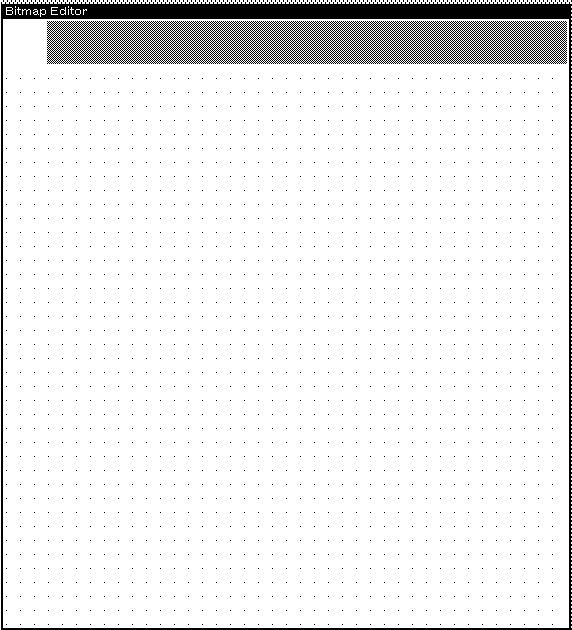
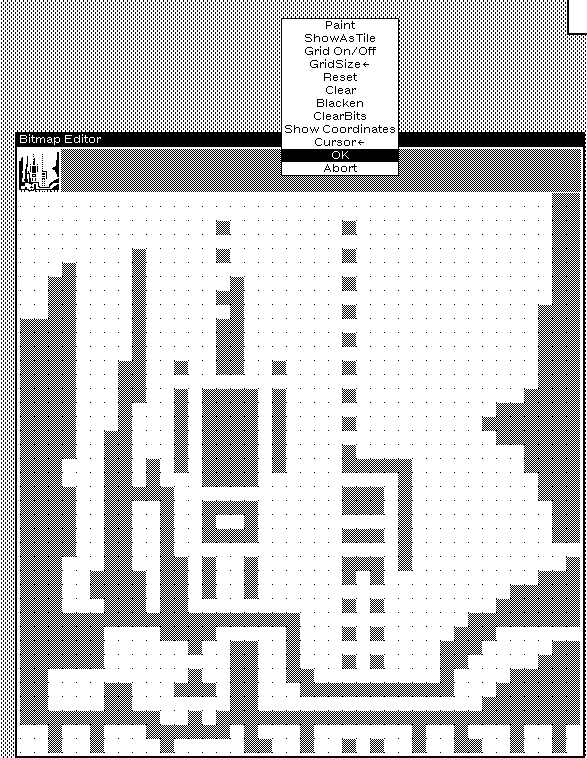
GITBOOK-91: No subject

diff --git a/drawing-in-medley.md b/drawing-in-medley.md
@@ -14,10 +14,15 @@ and then:
 
 `(EDITBM my.bitmap)`
 
-<figure><img src=".gitbook/assets/image.png" alt=""><figcaption></figcaption></figure>
+<figure><img src=".gitbook/assets/image (2).png" alt=""><figcaption></figcaption></figure>
 
 Your cursor will now display the outline of the window you created. Your Prompt Window displays: _Indicate the position for the Bitmap Edit Window_. Left-click on an empty space in your workspace to place your bitmap editor.\
 
 
-<figure><img src=".gitbook/assets/image (1).png" alt=""><figcaption></figcaption></figure>
+<figure><img src=".gitbook/assets/image (3).png" alt=""><figcaption></figcaption></figure>
 
+To draw, hold down on your left mouse button and to erase hold down your middle mouse button.
+
+To save your bitmap, hold down the middle mouse button in the solid gray box in the upper-center area. A menu will appear. While holding down the middle mouse button place your cursor on top of "OK" and let go. Your work will be saved and the window will close. The next time you edit your bitmap, you'll see what you previously drew.
+
+<figure><img src=".gitbook/assets/image (1).png" alt=""><figcaption></figcaption></figure>

diff --git a/debugging.md b/debugging.md
@@ -111,11 +111,11 @@ The `ADVISE` function takes four arguments:\
 
 Let's advise our factorial function, to check if X is a string or a number:
 
-<figure><img src=".gitbook/assets/image (3).png" alt=""><figcaption></figcaption></figure>
+<figure><img src=".gitbook/assets/image (3) (1).png" alt=""><figcaption></figcaption></figure>
 
 Now, when we execute `factorial`, we see:
 
-<figure><img src=".gitbook/assets/image (4).png" alt=""><figcaption></figcaption></figure>
+<figure><img src=".gitbook/assets/image (4) (1).png" alt=""><figcaption></figcaption></figure>
 
 We can remove advises from a function using `UNADVISE`:
 
@@ -123,7 +123,7 @@ We can remove advises from a function using `UNADVISE`:
 
 Try adding two advises to a new function. One should appear before and one after the function is executed.
 
-<figure><img src=".gitbook/assets/image (2).png" alt=""><figcaption></figcaption></figure>
+<figure><img src=".gitbook/assets/image (4).png" alt=""><figcaption></figcaption></figure>
 
 {% hint style="info" %}
 !VALUE can be used to access the final value of the function. \
